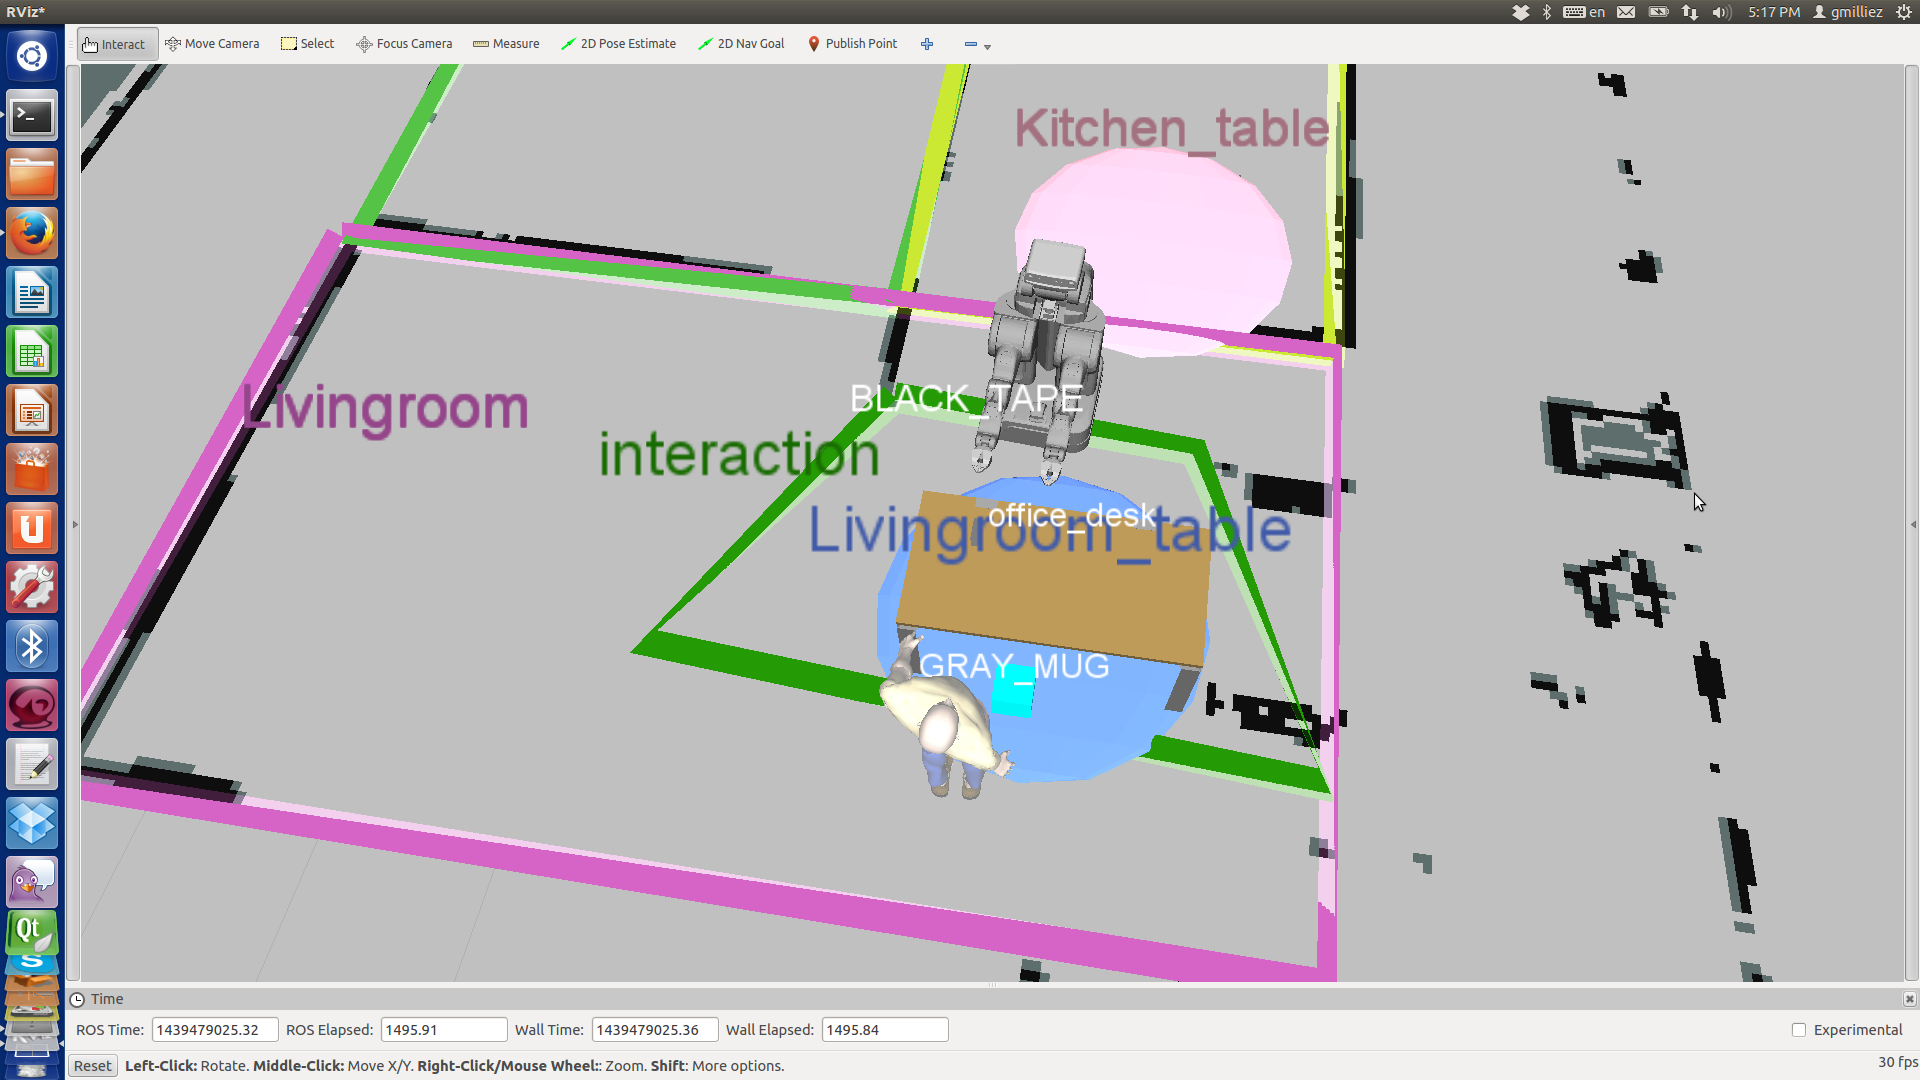
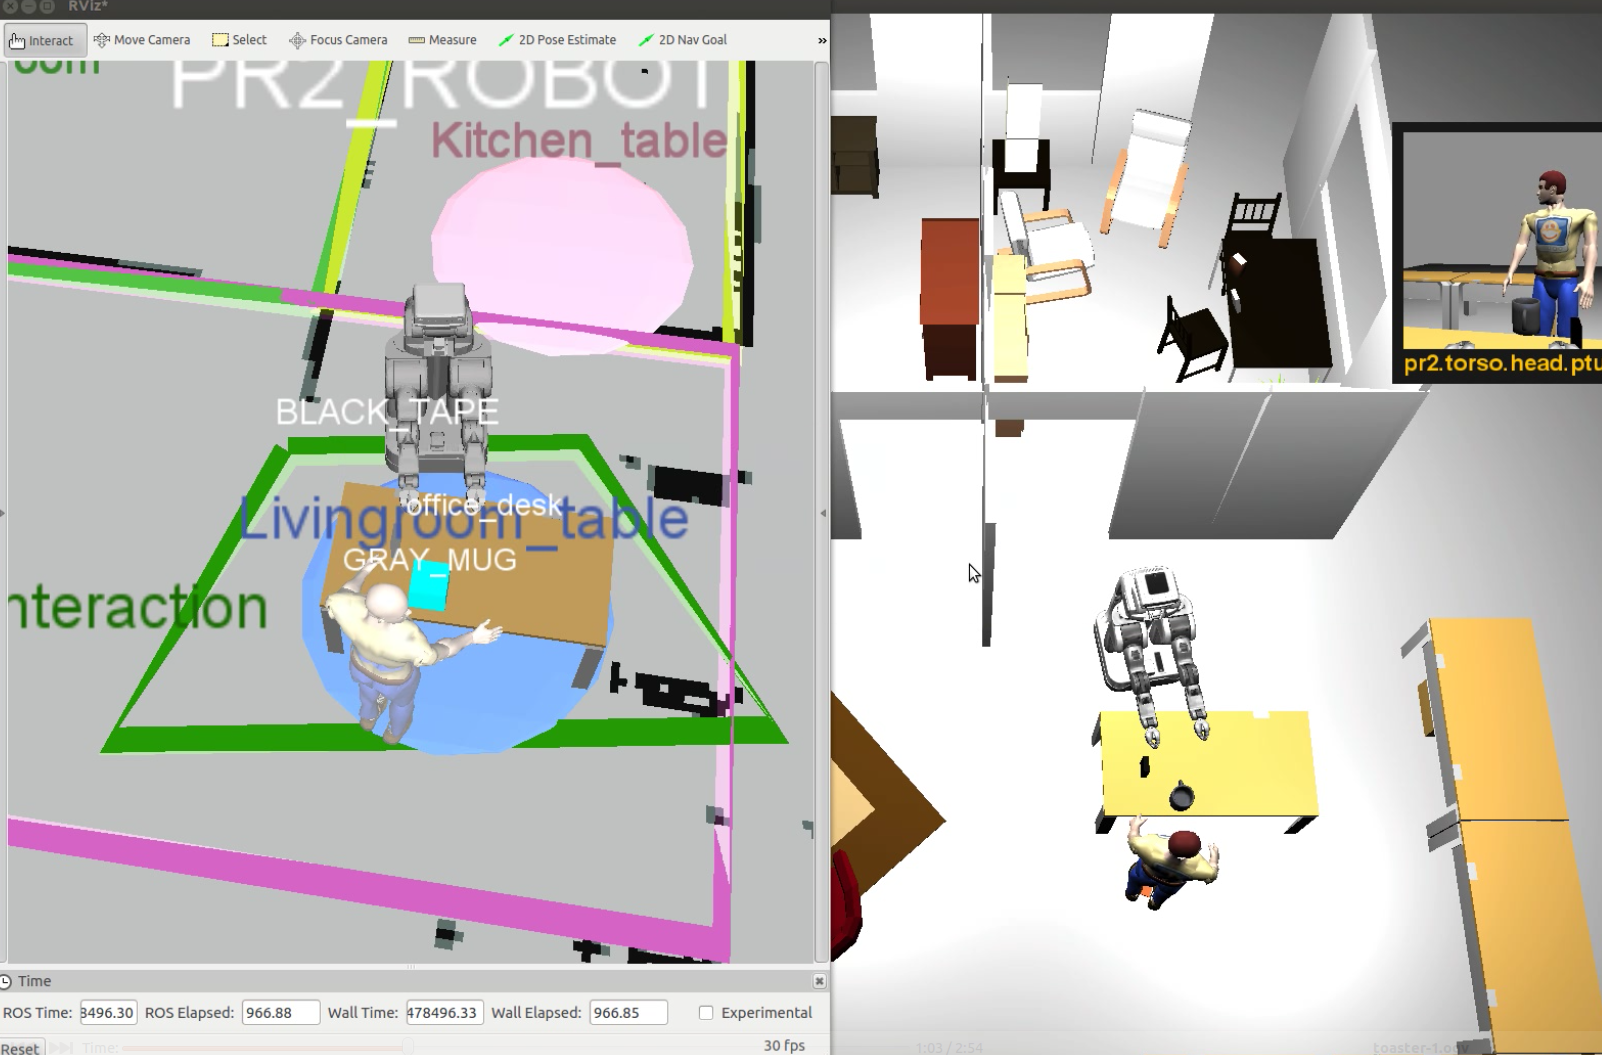
update doc

diff --git a/README.md b/README.md
@@ -5,9 +5,15 @@ Tracking Of Agent (actions and belief) and Spatio-TEmporal Reasoning.
 
 
 ![TOASTER screenshot 1](doc/media/human.png)
+
+The human from [morse](https://www.openrobots.org/morse/doc/stable/morse.html) import in toaster and visualized using rviz
+
 ![TOASTER screenshot 2](doc/media/full.png)
 
-This framework implement ros nodes that play a specific role in building situation assessment 
+A scenario using data input from morse.
+
+
+This framework provides ros nodes that play a specific role in building situation assessment 
 for the robot to understand its surrounding environment and have spatio-temporal reasoning on
 agents actions and belief.
 
@@ -38,4 +44,4 @@ toaster_visualizer :
 database_manager :
 
 
-A  [complete documentation](doc/media/toaster/index.html) is available.
+A [complete documentation](doc/media/toaster/index.html) is available.
